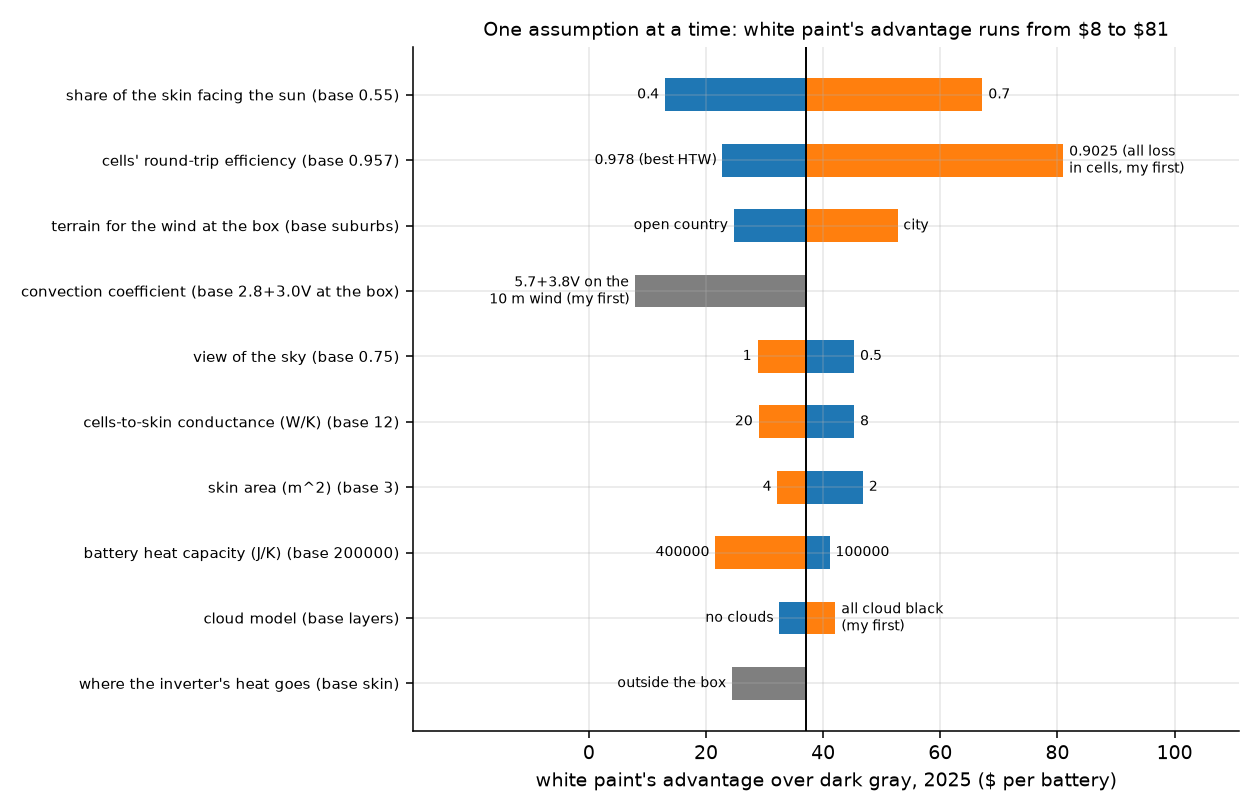
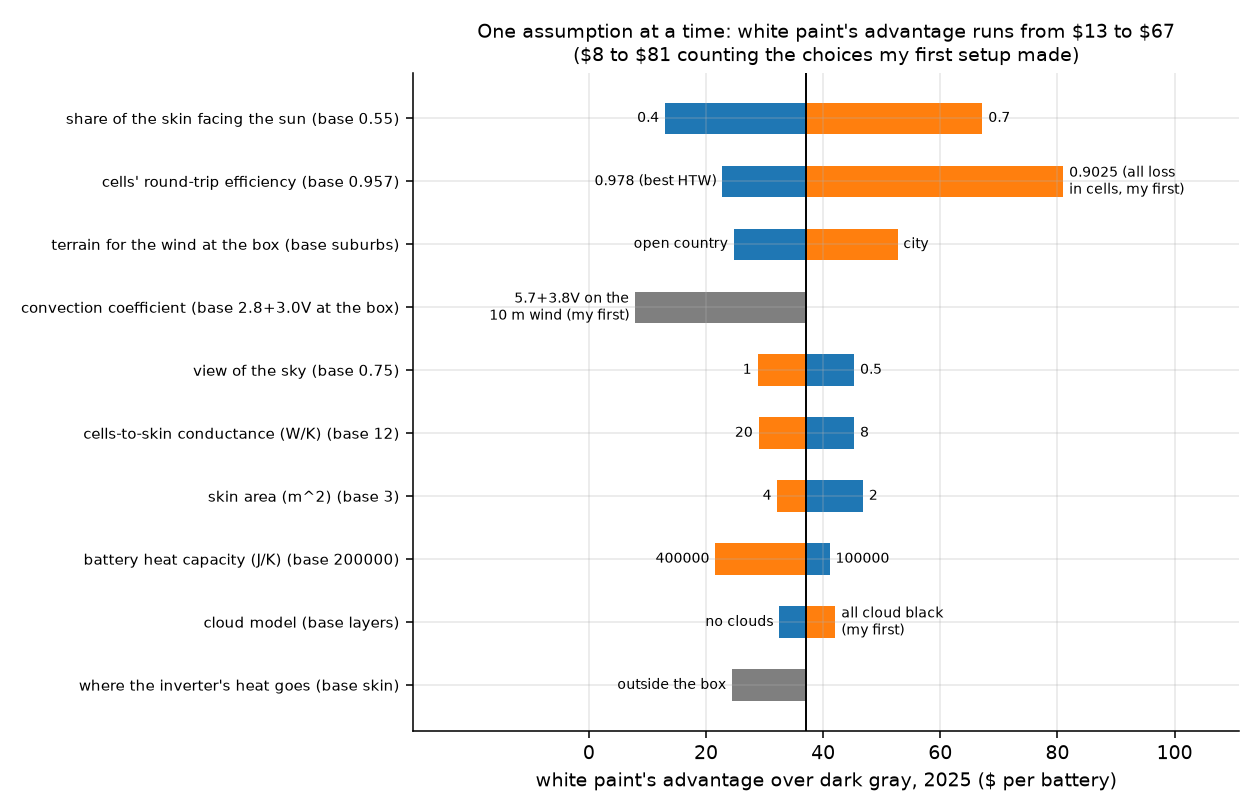
Title the sensitivity figure with the same range the README quotes
The figure said $8 to $81, which counts the convection coefficient and the all-loss-in-cells split from my first setup. Record and show the $13 to $67 range without them, with the wider one in brackets.

diff --git a/examples/make_figures.py b/examples/make_figures.py
@@ -304,6 +304,14 @@ BASE_LABEL = {"terrain": "suburbs", "cell_round_trip": battery.cell_round_trip, 
 VALUE_LABEL = {"country": "open country", "city": "city", 0.978: "0.978 (best HTW)", 0.95**2: "0.9025 (all loss\nin cells, my first)",
                "outside": "outside the box", "combined_10m": "5.7+3.8V on the\n10 m wind (my first)",
                "none": "no clouds", "black_total": "all cloud black\n(my first)"}
+# The ends that are my first setup's choices, which I've since found were wrong. The plausible range leaves them out.
+MY_FIRST_CHOICES = {("cell_round_trip", "high"), ("convection", "low"), ("clouds", "high")}
+
+
+def plausible_range(sens, rows):
+    vals = [sens[k][end][1] for k in rows for end in ("low", "high") if end in sens[k] and (k, end) not in MY_FIRST_CHOICES]
+    vals.append(sens["white_minus_dark_usd_base"])
+    return [min(vals), max(vals)]
 
 
 def physics_case(field, value):
@@ -369,9 +377,11 @@ def draw_sensitivity(sens, rows):
     ax.set_yticks(range(len(order)), [f"{sens[f]['label']} (base {base_text(f)})" for f in order], fontsize=7.5)
     ax.set_xlabel("white paint's advantage over dark gray, 2025 (\\$ per battery)")
     lo, hi = sens["range_usd"]
+    plo, phi = sens["range_usd_without_my_first_choices"] = plausible_range(sens, rows)
     ax.set_xlim(min(0, lo) - 30, hi + 30)
     ax.set_xticks(np.arange(0, hi + 30, 20))
-    ax.set_title(f"One assumption at a time: white paint's advantage runs from \\${lo:.0f} to \\${hi:.0f}", fontsize=10)
+    ax.set_title(f"One assumption at a time: white paint's advantage runs from \\${plo:.0f} to \\${phi:.0f}\n"
+                 f"(\\${lo:.0f} to \\${hi:.0f} counting the choices my first setup made)", fontsize=10)
     save(fig, "assumption_sensitivity.png")
 
 
@@ -438,6 +448,7 @@ if __name__ == "__main__":
     results = json.loads(RESULTS.read_text()) if RESULTS.exists() else {}
     if args.part in REDRAW:
         REDRAW[args.part](results)
+        RESULTS.write_text(json.dumps(results, indent=2))
     for name, fn in PARTS.items():
         if args.part in (name, "all"):
             fn(results)
